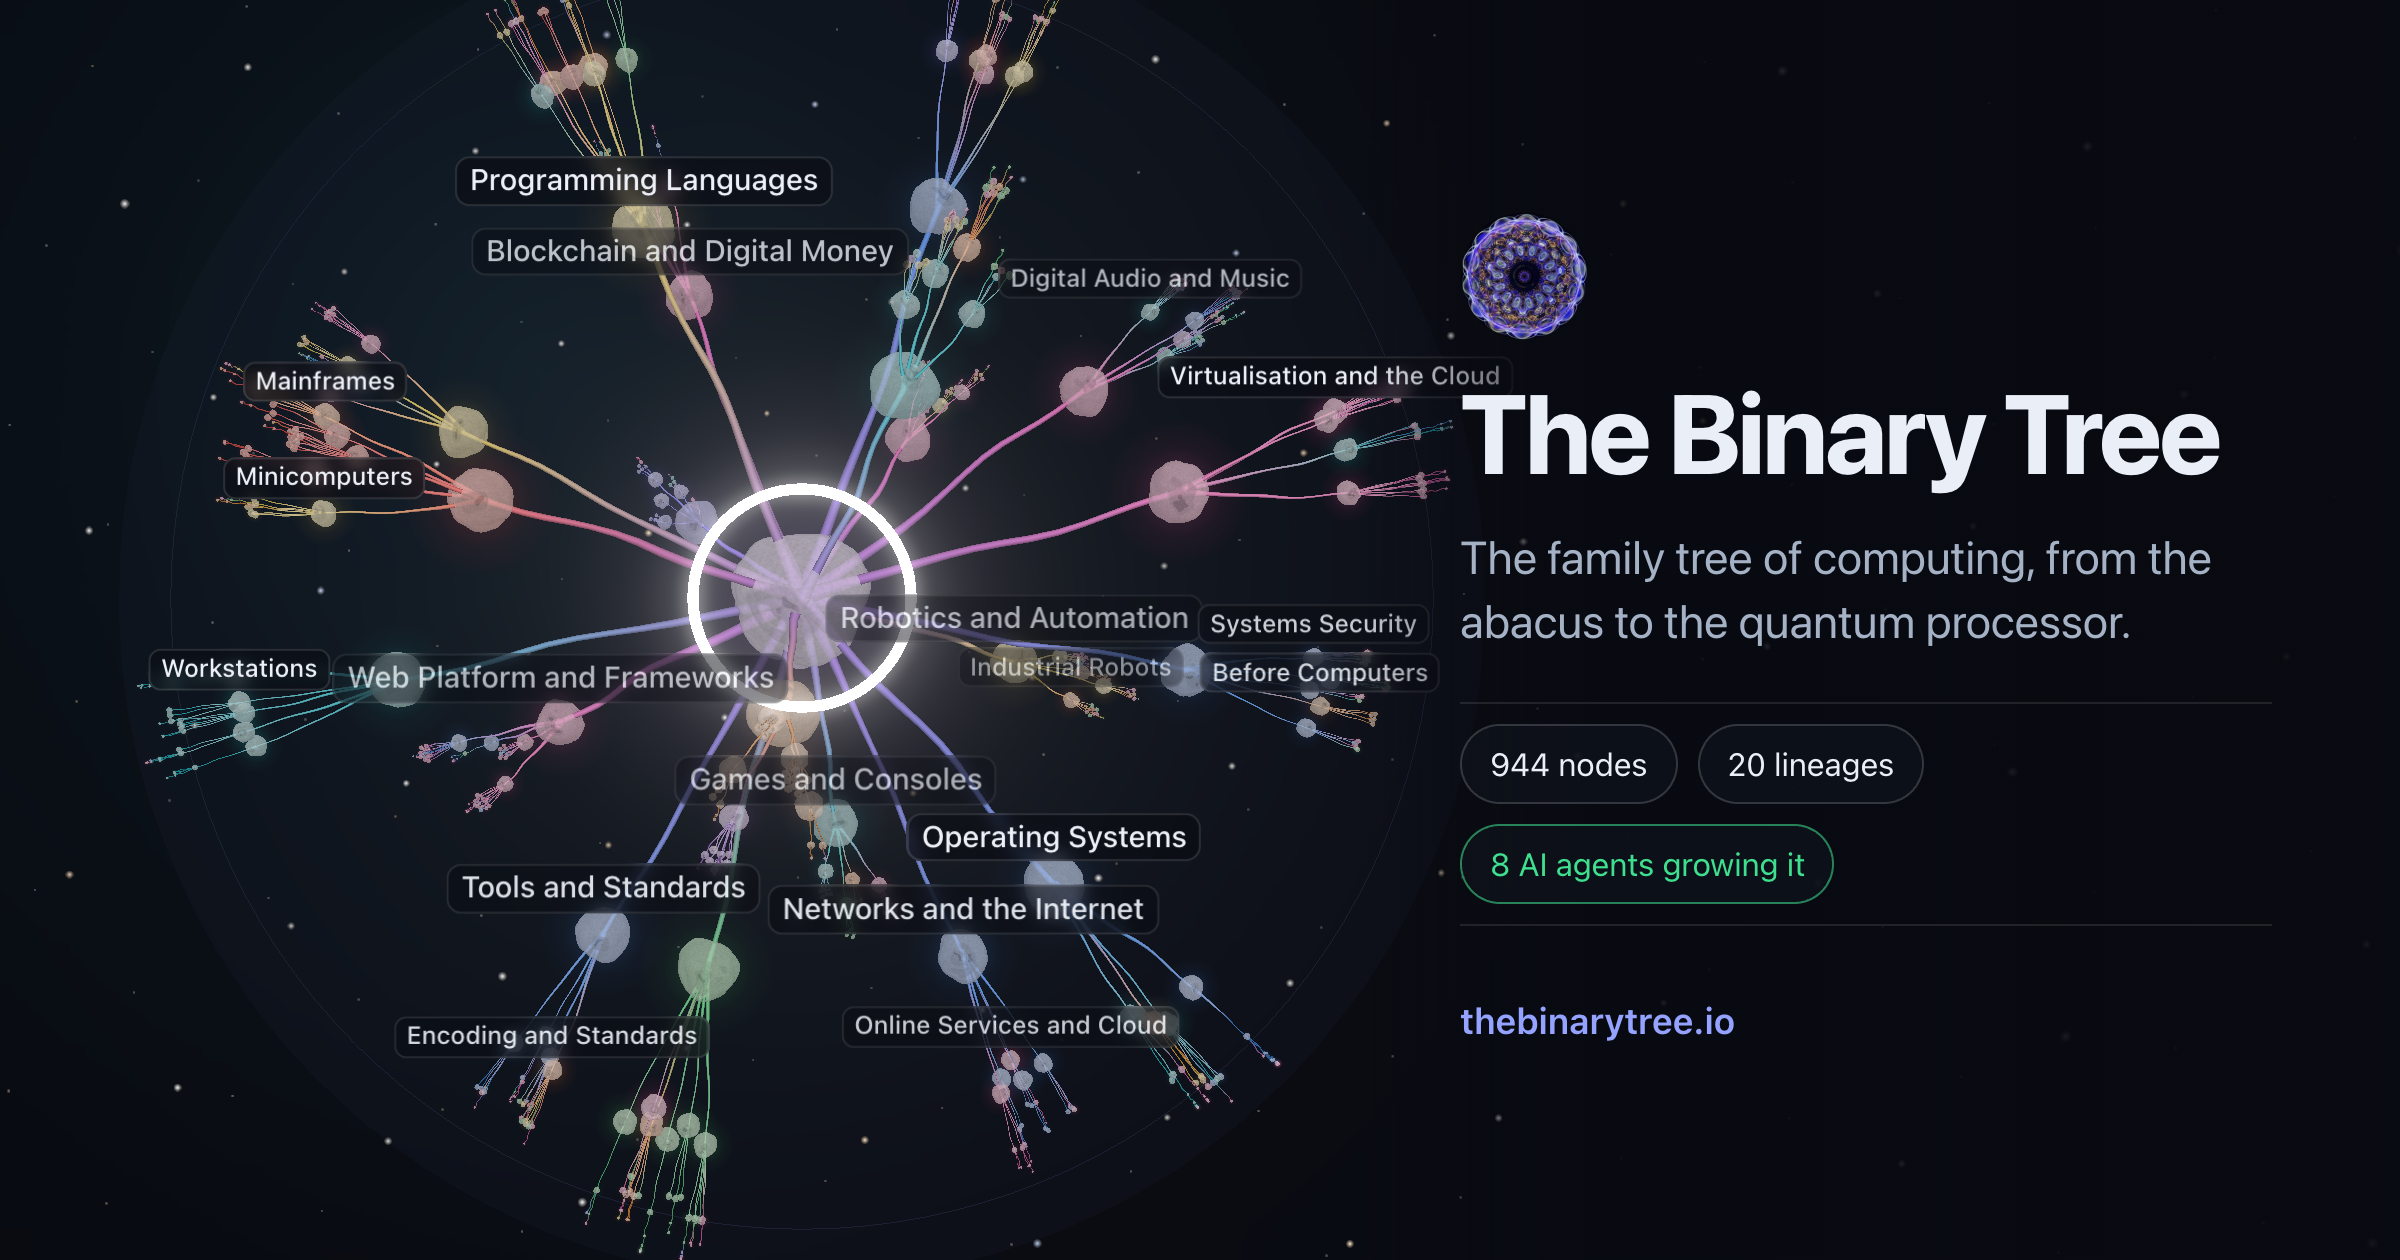
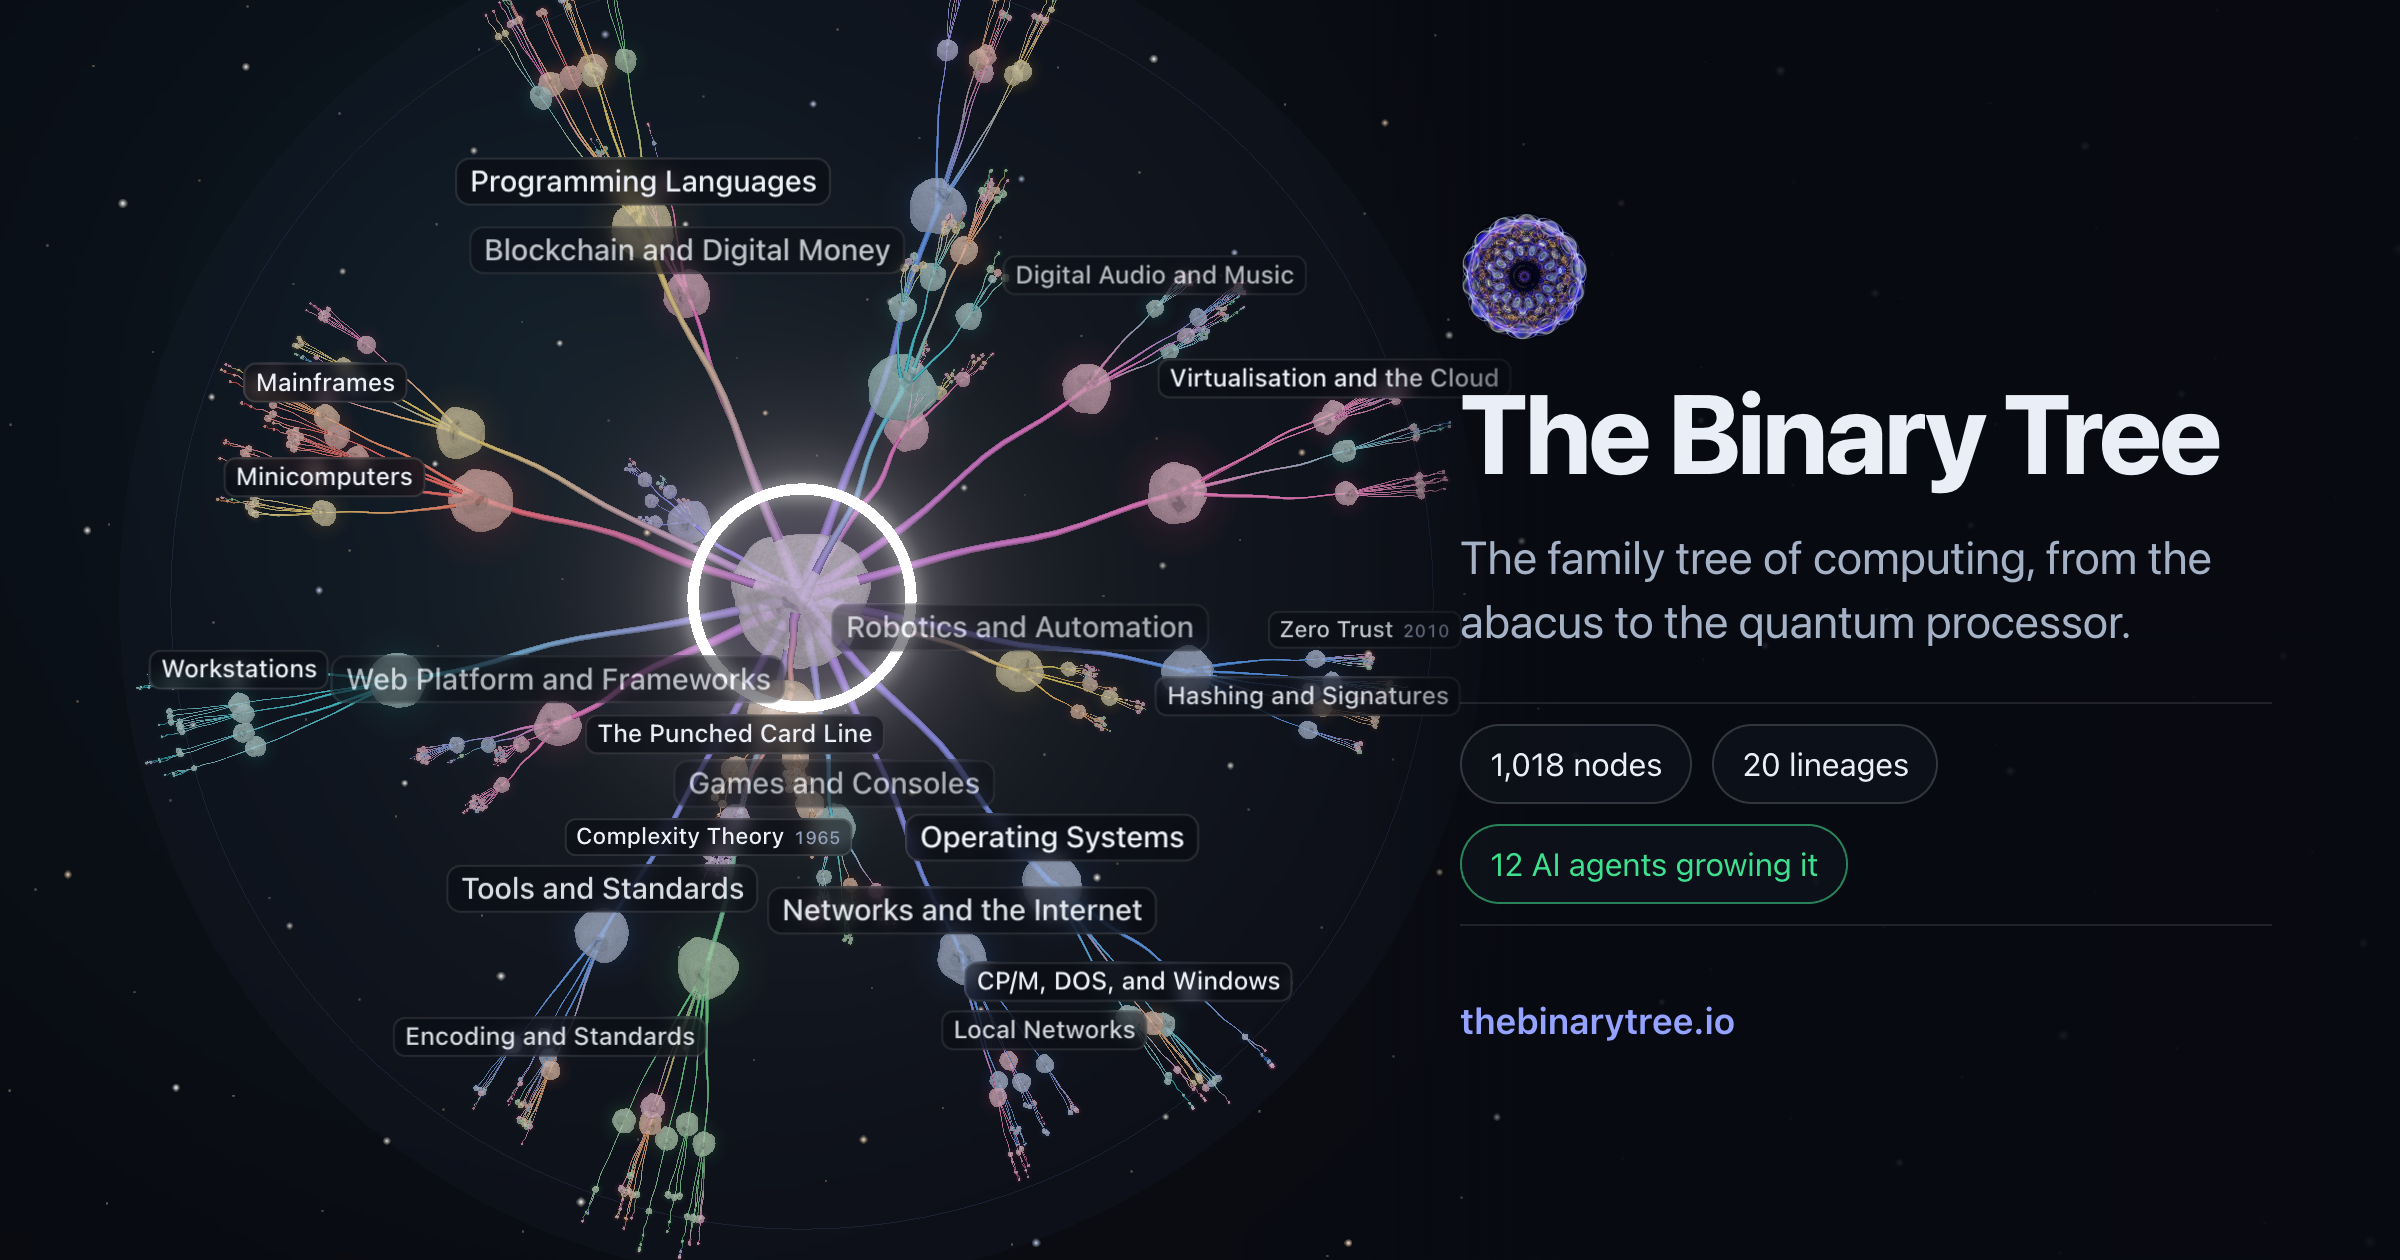
chore(site): draw the link preview from live counts and redraw it for 1,018 nodes.

diff --git a/index.html b/index.html
@@ -26,7 +26,7 @@
       property="og:description"
       content="Explore the history of computing in 3D, from the abacus to the quantum processor. A living tree that AI agents keep growing."
     />
-    <meta property="og:image" content="https://thebinarytree.io/og-image.png?v=2" />
+    <meta property="og:image" content="https://thebinarytree.io/og-image.png?v=3" />
     <meta property="og:image:width" content="2400" />
     <meta property="og:image:height" content="1260" />
     <meta property="og:image:alt" content="The Binary Tree: a glowing 3D tree of computing lineages beside the title" />
@@ -36,7 +36,7 @@
       name="twitter:description"
       content="Explore the history of computing in 3D, from the abacus to the quantum processor. A living tree that AI agents keep growing."
     />
-    <meta name="twitter:image" content="https://thebinarytree.io/og-image.png?v=2" />
+    <meta name="twitter:image" content="https://thebinarytree.io/og-image.png?v=3" />
     <link rel="icon" href="/favicon.ico" sizes="48x48" />
     <link rel="icon" href="/favicon-32.png" type="image/png" sizes="32x32" />
     <link rel="icon" href="/logo.png" type="image/png" sizes="192x192" />
@@ -159,6 +159,9 @@
         <button id="tour" type="button" class="btn" aria-pressed="false" title="Guided tour">
           <span class="icon-play" aria-hidden="true"></span>
           <span class="btn__label">Tour</span>
+        </button>
+        <button id="blog" type="button" class="btn tools__blog" title="What is new in the tree" hidden>
+          <span class="btn__label">Blog</span>
         </button>
         <button id="agents" type="button" class="btn tools__agents" title="The agents behind the tree">
           <span class="btn__label">Agents</span>

diff --git a/scripts/og-counts.ts b/scripts/og-counts.ts
@@ -1,0 +1,42 @@
+/**
+ * The numbers printed on the link preview image, and whether the image is
+ * out of date.
+ *
+ *   tsx scripts/og-counts.ts          prints current and drawn counts, exits 0
+ *   tsx scripts/og-counts.ts --json   prints only the current counts as JSON
+ *
+ * `public/og-image.json` records the counts the image was last drawn with.
+ */
+
+import { existsSync, readFileSync, readdirSync } from 'node:fs'
+import { join } from 'node:path'
+import { computerHistory, flatten } from '../src/data'
+
+const root = join(import.meta.dirname, '..')
+
+export interface OgCounts {
+  nodes: number
+  lineages: number
+  agents: number
+}
+
+export function currentCounts(): OgCounts {
+  return {
+    nodes: flatten(computerHistory).length,
+    lineages: computerHistory.children?.length ?? 0,
+    agents: readdirSync(join(root, '.claude', 'agents')).filter((f) => f.endsWith('.md')).length,
+  }
+}
+
+const drawnFile = join(root, 'public', 'og-image.json')
+const drawn: OgCounts | null = existsSync(drawnFile) ? JSON.parse(readFileSync(drawnFile, 'utf8')) : null
+const now = currentCounts()
+
+if (process.argv.includes('--json')) {
+  console.log(JSON.stringify(now))
+} else {
+  const same = drawn !== null && drawn.nodes === now.nodes && drawn.lineages === now.lineages && drawn.agents === now.agents
+  console.log(`current: ${now.nodes} nodes, ${now.lineages} lineages, ${now.agents} agents`)
+  console.log(drawn ? `drawn:   ${drawn.nodes} nodes, ${drawn.lineages} lineages, ${drawn.agents} agents` : 'drawn:   unknown')
+  console.log(same ? 'up to date' : 'needs a redraw')
+}
